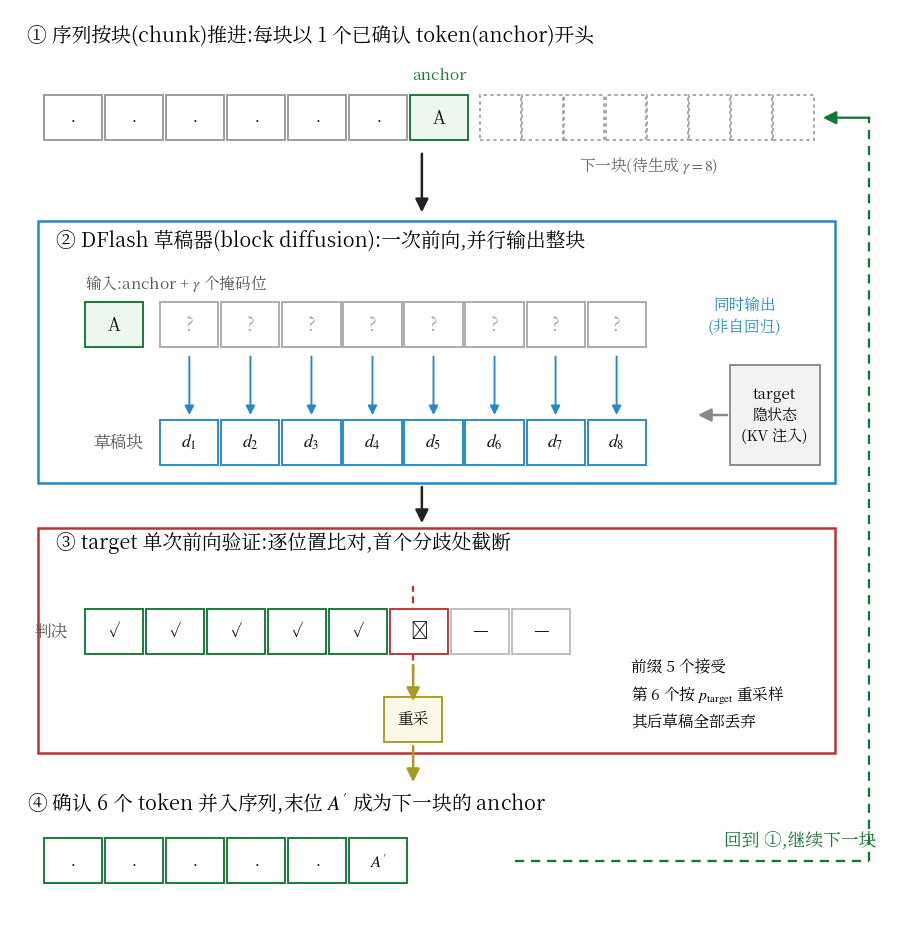
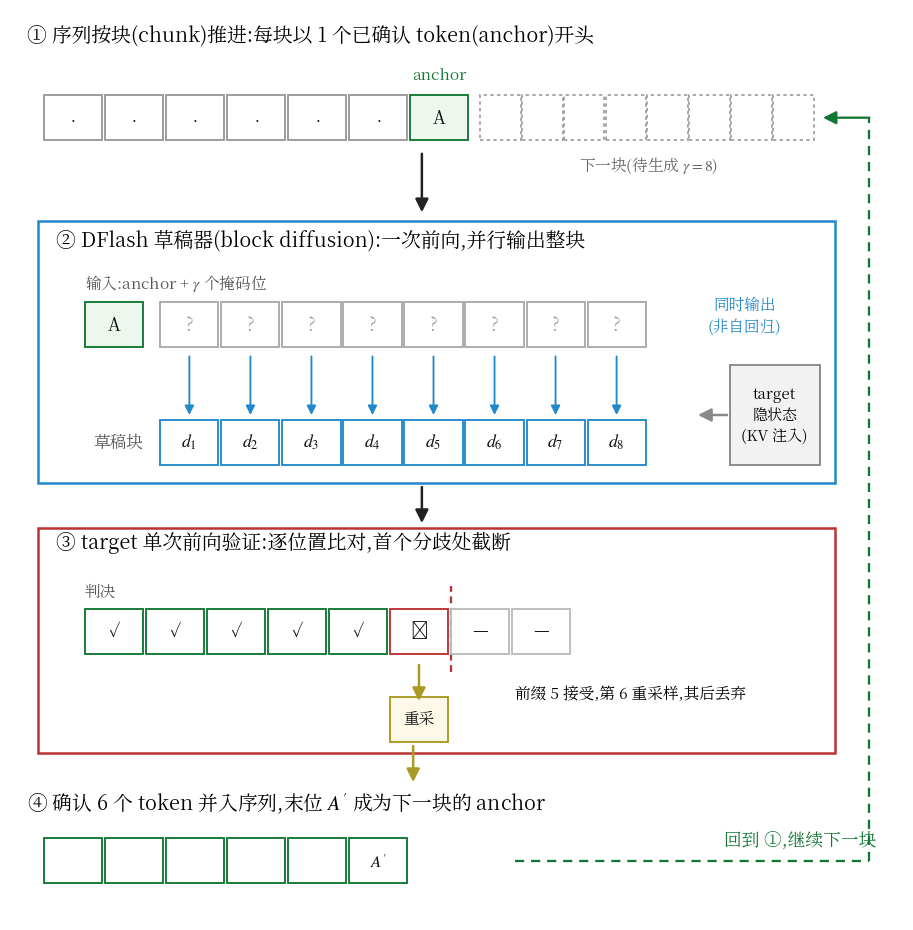
figD 对齐精修:判决标签上置、截断线对齐格缘、说明一行内置、空占位格

diff --git a/articles/speculative-decoding/academic_figs.py b/articles/speculative-decoding/academic_figs.py
@@ -231,19 +231,19 @@ def figD_dflash():
         verdict = "✓" if i < 5 else ("✗" if i == 5 else "—")
         c = DGREEN if i < 5 else (DRED if i == 5 else "#bbbbbb")
         cell(ax, 1.2 + i * 1.05, 5.8, verdict, ec=c, fs=8.5)
-    ax.text(0.9, 6.3, "判决", fontsize=8, color="#555555", va="center", ha="right")
-    ax.plot([6.85, 6.85], [5.4, 7.3], ls=(0, (3, 2)), lw=1.1, color=DRED)
-    arr(ax, 6.85, 5.55, 6.85, 4.75, color=DORANGE)
-    cell(ax, 6.35, 3.85, "重采", ec=DORANGE, fc="#fdf9e8", fs=7.5)
-    ax.text(10.6, 4.9, "前缀 5 个接受\n第 6 个按 $p_{\\mathrm{target}}$ 重采样\n其后草稿全部丢弃",
-            fontsize=7.5, va="center", ha="left", linespacing=1.6)
+    ax.text(1.2, 7.0, "判决", fontsize=7.5, color="#555555", ha="left", va="bottom")
+    ax.plot([7.5, 7.5], [5.4, 7.3], ls=(0, (3, 2)), lw=1.1, color=DRED)
+    arr(ax, 6.95, 5.55, 6.95, 4.75, color=DORANGE)
+    cell(ax, 6.45, 3.85, "重采", ec=DORANGE, fc="#fdf9e8", fs=7.5)
+    ax.text(8.6, 4.9, "前缀 5 接受,第 6 重采样,其后丢弃", fontsize=7.5,
+            va="center", ha="left")
 
     # ---------- layer 4: append & loop ----------
     arr(ax, 6.85, 3.75, 6.85, 2.95, color=DORANGE)          # resample -> layer4
     ax.text(0.2, 2.35, "④ 确认 6 个 token 并入序列,末位 $A'$ 成为下一块的 anchor",
             fontsize=9.5)
     for i in range(6):
-        cell(ax, 0.5 + i * 1.05, 0.7, "$\\cdot$" if i < 5 else "$A'$", ec=DGREEN, fs=8)
+        cell(ax, 0.5 + i * 1.05, 0.7, "" if i < 5 else "$A'$", ec=DGREEN, fs=8)
     # true loop arrow back to layer 1
     ax.plot([8.6, 14.7], [1.2, 1.2], ls=(0, (4, 3)), lw=1.1, color=DGREEN)
     ax.plot([14.7, 14.7], [1.2, 17.7], ls=(0, (4, 3)), lw=1.1, color=DGREEN)
